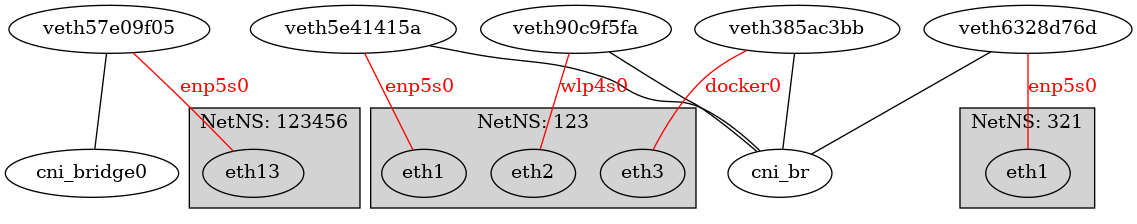
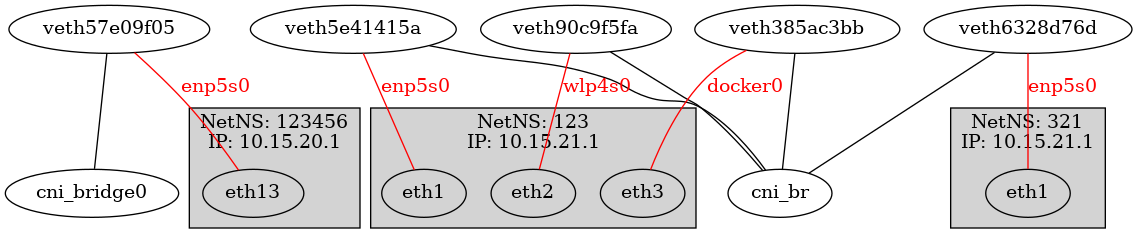
show bridge ip if exist

diff --git a/cmd/iftree/main.go b/cmd/iftree/main.go
@@ -2,8 +2,10 @@ package main
 
 import (
 	"fmt"
+	"net"
 	"os"
 	"runtime"
+	"syscall"
 	"text/tabwriter"
 
 	"github.com/containerd/nerdctl/pkg/rootlessutil"
@@ -29,7 +31,7 @@ func main() {
 		log.Error("iftree must be run as root to enter ns")
 		os.Exit(1)
 	}
-	log.SetLevel(log.ErrorLevel)
+	log.SetLevel(log.InfoLevel)
 	if *debug {
 		log.SetLevel(log.DebugLevel)
 	}
@@ -96,18 +98,32 @@ func main() {
 			}
 
 			// if master is not bridge
-			if _, ok := master.(*netlink.Bridge); ok {
+			if master, ok := master.(*netlink.Bridge); ok {
 				v, ok := vm[master.Attrs().Name]
 				if !ok {
 					vm[master.Attrs().Name] = []pkg.Pair{}
 				}
-				vm[master.Attrs().Name] = append(v, pkg.Pair{
+
+				pair := pkg.Pair{
 					Veth:        veth.Name,
 					Peer:        peer.Attrs().Name,
 					PeerInNetns: peerInNs.Attrs().Name,
 					PeerId:      peerIdx,
 					NetNsID:     veth.NetNsID,
-					NetNsName:   peerNetNs})
+					NetNsName:   peerNetNs,
+				}
+				addrs, err := netlink.AddrList(master, syscall.AF_INET)
+				if err != nil {
+					log.Fatal(err)
+				}
+				if len(addrs) > 0 {
+					pair.Master = &pkg.Bridge{
+						Name: master.Name,
+						IP:   []*net.IP{&addrs[0].IP},
+					}
+				}
+
+				vm[master.Attrs().Name] = append(v, pair)
 			}
 		}
 

diff --git a/pkg/graph/graph.go b/pkg/graph/graph.go
@@ -28,12 +28,15 @@ func GenerateGraph(m map[string][]pkg.Pair) (string, error) {
 			if !ok {
 				sub = gographviz.NewSubGraph(fmt.Sprintf("cluster%s%c", bridge, 'A'+i))
 				m[vp.NetNsName] = sub
-				if err := root.AddSubGraph("G", sub.Name,
-					map[string]string{
-						"label":   "NetNS: " + vp.NetNsName,
-						"style":   "filled",
-						"nodesep": "4.0",
-					}); err != nil {
+				attr := map[string]string{
+					"label":   fmt.Sprintf("NetNS: %s", vp.NetNsName),
+					"style":   "filled",
+					"nodesep": "4.0",
+				}
+				if vp.Master != nil {
+					attr["label"] += fmt.Sprintf("\nIP: %s", vp.Master.IP[0])
+				}
+				if err := root.AddSubGraph("G", sub.Name, attr); err != nil {
 					return "", err
 				}
 			}

diff --git a/pkg/type.go b/pkg/type.go
@@ -1,5 +1,7 @@
 package pkg
 
+import "net"
+
 type Pair struct {
 	Veth        string
 	Peer        string
@@ -8,4 +10,11 @@ type Pair struct {
 
 	NetNsID   int
 	NetNsName string
+
+	Master *Bridge
+}
+
+type Bridge struct {
+	Name string
+	IP   []*net.IP
 }

diff --git a/README.md b/README.md
@@ -7,6 +7,8 @@ CLI, easy way to illustrate local network interface.
 
 The intent is for understanding container networks :D
 
+![networ-devices](./img/sample.png)
+
 ## example
 ```
 # sudo go run main.go
@@ -38,8 +40,7 @@ or
 # sudo go run cmd/iftree/main.go --graph > xx.dot
 # dot -Tpng xx.dot > output.png
 ```
-
-output
+example:
 ![networ-devices](./img/sample.png)
 
 ### prequisite
